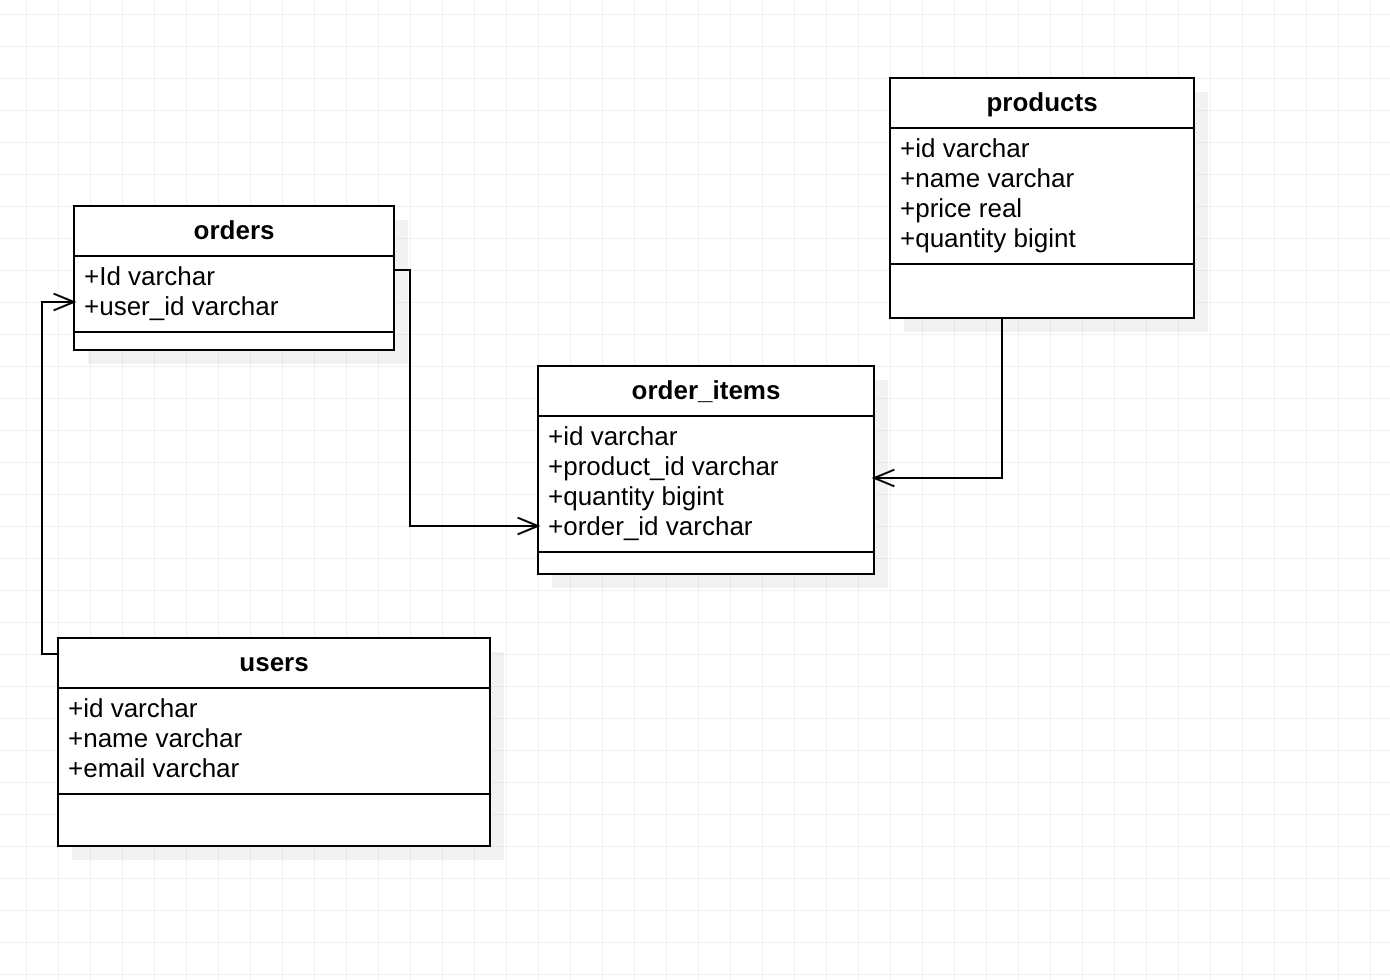
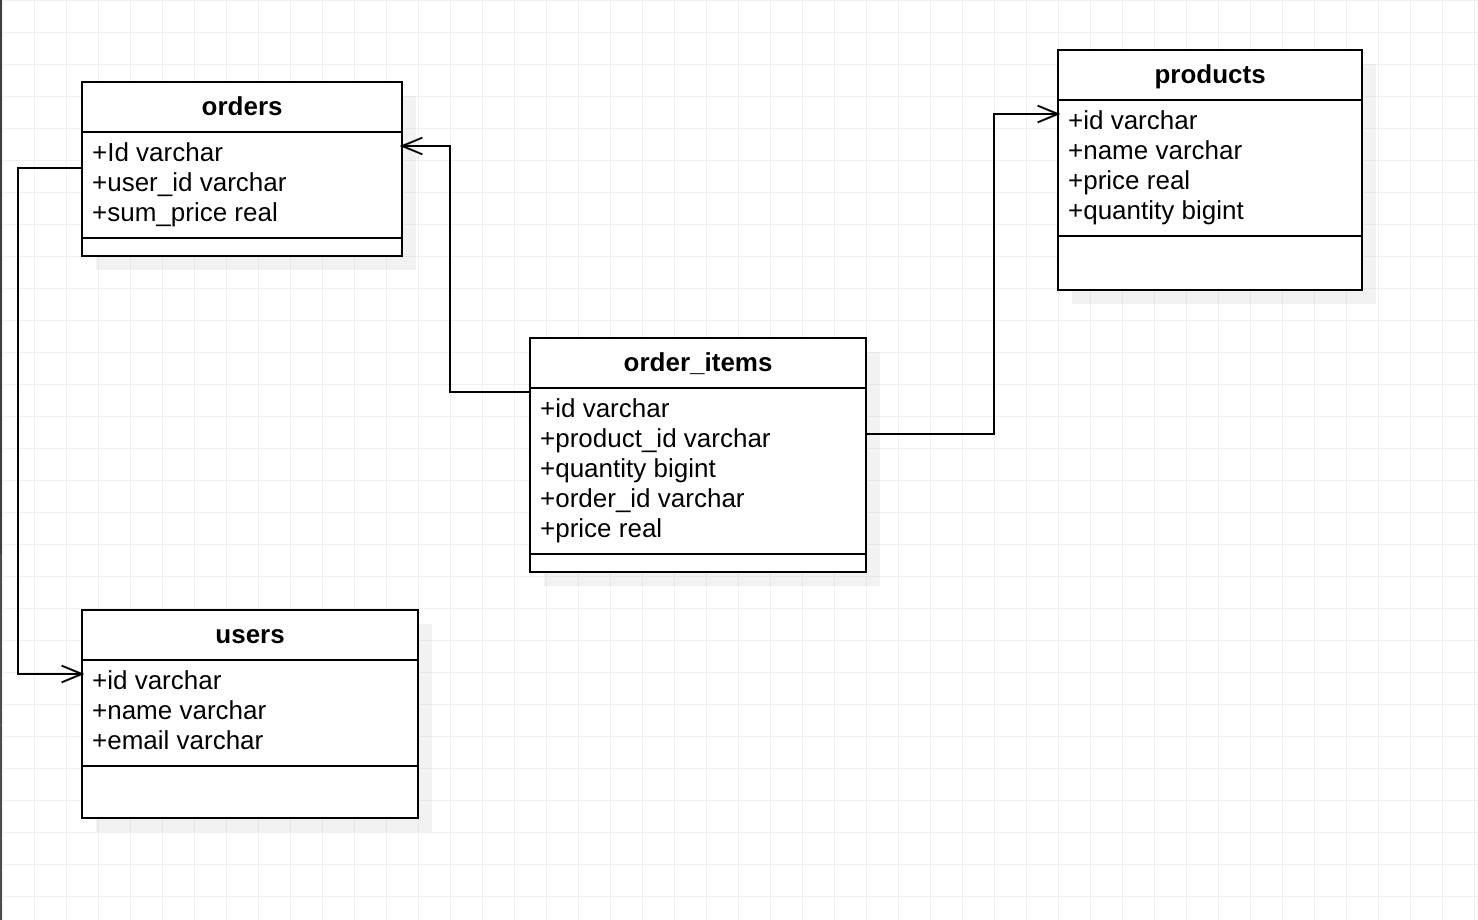
update code

diff --git a/internal/databases/orm/order_items.go b/internal/databases/orm/order_items.go
@@ -24,13 +24,14 @@ import (
 
 // OrderItem is an object representing the database table.
 type OrderItem struct {
-	ID        string      `boil:"id" json:"id" toml:"id" yaml:"id"`
-	ProductID null.String `boil:"product_id" json:"product_id,omitempty" toml:"product_id" yaml:"product_id,omitempty"`
-	Quantity  null.Int64  `boil:"quantity" json:"quantity,omitempty" toml:"quantity" yaml:"quantity,omitempty"`
-	OrderID   null.String `boil:"order_id" json:"order_id,omitempty" toml:"order_id" yaml:"order_id,omitempty"`
-	CreatedAt time.Time   `boil:"created_at" json:"created_at" toml:"created_at" yaml:"created_at"`
-	UpdatedAt null.Time   `boil:"updated_at" json:"updated_at,omitempty" toml:"updated_at" yaml:"updated_at,omitempty"`
-	DeletedAt null.Time   `boil:"deleted_at" json:"deleted_at,omitempty" toml:"deleted_at" yaml:"deleted_at,omitempty"`
+	ID        string       `boil:"id" json:"id" toml:"id" yaml:"id"`
+	ProductID null.String  `boil:"product_id" json:"product_id,omitempty" toml:"product_id" yaml:"product_id,omitempty"`
+	Quantity  null.Int64   `boil:"quantity" json:"quantity,omitempty" toml:"quantity" yaml:"quantity,omitempty"`
+	OrderID   null.String  `boil:"order_id" json:"order_id,omitempty" toml:"order_id" yaml:"order_id,omitempty"`
+	Price     null.Float32 `boil:"price" json:"price,omitempty" toml:"price" yaml:"price,omitempty"`
+	CreatedAt time.Time    `boil:"created_at" json:"created_at" toml:"created_at" yaml:"created_at"`
+	UpdatedAt null.Time    `boil:"updated_at" json:"updated_at,omitempty" toml:"updated_at" yaml:"updated_at,omitempty"`
+	DeletedAt null.Time    `boil:"deleted_at" json:"deleted_at,omitempty" toml:"deleted_at" yaml:"deleted_at,omitempty"`
 
 	R *orderItemR `boil:"-" json:"-" toml:"-" yaml:"-"`
 	L orderItemL  `boil:"-" json:"-" toml:"-" yaml:"-"`
@@ -41,6 +42,7 @@ var OrderItemColumns = struct {
 	ProductID string
 	Quantity  string
 	OrderID   string
+	Price     string
 	CreatedAt string
 	UpdatedAt string
 	DeletedAt string
@@ -49,6 +51,7 @@ var OrderItemColumns = struct {
 	ProductID: "product_id",
 	Quantity:  "quantity",
 	OrderID:   "order_id",
+	Price:     "price",
 	CreatedAt: "created_at",
 	UpdatedAt: "updated_at",
 	DeletedAt: "deleted_at",
@@ -59,6 +62,7 @@ var OrderItemTableColumns = struct {
 	ProductID string
 	Quantity  string
 	OrderID   string
+	Price     string
 	CreatedAt string
 	UpdatedAt string
 	DeletedAt string
@@ -67,6 +71,7 @@ var OrderItemTableColumns = struct {
 	ProductID: "order_items.product_id",
 	Quantity:  "order_items.quantity",
 	OrderID:   "order_items.order_id",
+	Price:     "order_items.price",
 	CreatedAt: "order_items.created_at",
 	UpdatedAt: "order_items.updated_at",
 	DeletedAt: "order_items.deleted_at",
@@ -145,6 +150,30 @@ func (w whereHelpernull_Int64) GTE(x null.Int64) qm.QueryMod {
 func (w whereHelpernull_Int64) IsNull() qm.QueryMod    { return qmhelper.WhereIsNull(w.field) }
 func (w whereHelpernull_Int64) IsNotNull() qm.QueryMod { return qmhelper.WhereIsNotNull(w.field) }
 
+type whereHelpernull_Float32 struct{ field string }
+
+func (w whereHelpernull_Float32) EQ(x null.Float32) qm.QueryMod {
+	return qmhelper.WhereNullEQ(w.field, false, x)
+}
+func (w whereHelpernull_Float32) NEQ(x null.Float32) qm.QueryMod {
+	return qmhelper.WhereNullEQ(w.field, true, x)
+}
+func (w whereHelpernull_Float32) LT(x null.Float32) qm.QueryMod {
+	return qmhelper.Where(w.field, qmhelper.LT, x)
+}
+func (w whereHelpernull_Float32) LTE(x null.Float32) qm.QueryMod {
+	return qmhelper.Where(w.field, qmhelper.LTE, x)
+}
+func (w whereHelpernull_Float32) GT(x null.Float32) qm.QueryMod {
+	return qmhelper.Where(w.field, qmhelper.GT, x)
+}
+func (w whereHelpernull_Float32) GTE(x null.Float32) qm.QueryMod {
+	return qmhelper.Where(w.field, qmhelper.GTE, x)
+}
+
+func (w whereHelpernull_Float32) IsNull() qm.QueryMod    { return qmhelper.WhereIsNull(w.field) }
+func (w whereHelpernull_Float32) IsNotNull() qm.QueryMod { return qmhelper.WhereIsNotNull(w.field) }
+
 type whereHelpertime_Time struct{ field string }
 
 func (w whereHelpertime_Time) EQ(x time.Time) qm.QueryMod {
@@ -195,6 +224,7 @@ var OrderItemWhere = struct {
 	ProductID whereHelpernull_String
 	Quantity  whereHelpernull_Int64
 	OrderID   whereHelpernull_String
+	Price     whereHelpernull_Float32
 	CreatedAt whereHelpertime_Time
 	UpdatedAt whereHelpernull_Time
 	DeletedAt whereHelpernull_Time
@@ -203,6 +233,7 @@ var OrderItemWhere = struct {
 	ProductID: whereHelpernull_String{field: "\"order_items\".\"product_id\""},
 	Quantity:  whereHelpernull_Int64{field: "\"order_items\".\"quantity\""},
 	OrderID:   whereHelpernull_String{field: "\"order_items\".\"order_id\""},
+	Price:     whereHelpernull_Float32{field: "\"order_items\".\"price\""},
 	CreatedAt: whereHelpertime_Time{field: "\"order_items\".\"created_at\""},
 	UpdatedAt: whereHelpernull_Time{field: "\"order_items\".\"updated_at\""},
 	DeletedAt: whereHelpernull_Time{field: "\"order_items\".\"deleted_at\""},
@@ -225,9 +256,9 @@ func (*orderItemR) NewStruct() *orderItemR {
 type orderItemL struct{}
 
 var (
-	orderItemAllColumns            = []string{"id", "product_id", "quantity", "order_id", "created_at", "updated_at", "deleted_at"}
+	orderItemAllColumns            = []string{"id", "product_id", "quantity", "order_id", "price", "created_at", "updated_at", "deleted_at"}
 	orderItemColumnsWithoutDefault = []string{"id", "created_at"}
-	orderItemColumnsWithDefault    = []string{"product_id", "quantity", "order_id", "updated_at", "deleted_at"}
+	orderItemColumnsWithDefault    = []string{"product_id", "quantity", "order_id", "price", "updated_at", "deleted_at"}
 	orderItemPrimaryKeyColumns     = []string{"id"}
 	orderItemGeneratedColumns      = []string{}
 )

diff --git a/internal/databases/orm/orders.go b/internal/databases/orm/orders.go
@@ -24,11 +24,12 @@ import (
 
 // Order is an object representing the database table.
 type Order struct {
-	ID        string    `boil:"id" json:"id" toml:"id" yaml:"id"`
-	UserID    string    `boil:"user_id" json:"user_id" toml:"user_id" yaml:"user_id"`
-	CreatedAt time.Time `boil:"created_at" json:"created_at" toml:"created_at" yaml:"created_at"`
-	UpdatedAt null.Time `boil:"updated_at" json:"updated_at,omitempty" toml:"updated_at" yaml:"updated_at,omitempty"`
-	DeletedAt null.Time `boil:"deleted_at" json:"deleted_at,omitempty" toml:"deleted_at" yaml:"deleted_at,omitempty"`
+	ID        string       `boil:"id" json:"id" toml:"id" yaml:"id"`
+	UserID    string       `boil:"user_id" json:"user_id" toml:"user_id" yaml:"user_id"`
+	SumPrice  null.Float32 `boil:"sum_price" json:"sum_price,omitempty" toml:"sum_price" yaml:"sum_price,omitempty"`
+	CreatedAt time.Time    `boil:"created_at" json:"created_at" toml:"created_at" yaml:"created_at"`
+	UpdatedAt null.Time    `boil:"updated_at" json:"updated_at,omitempty" toml:"updated_at" yaml:"updated_at,omitempty"`
+	DeletedAt null.Time    `boil:"deleted_at" json:"deleted_at,omitempty" toml:"deleted_at" yaml:"deleted_at,omitempty"`
 
 	R *orderR `boil:"-" json:"-" toml:"-" yaml:"-"`
 	L orderL  `boil:"-" json:"-" toml:"-" yaml:"-"`
@@ -37,12 +38,14 @@ type Order struct {
 var OrderColumns = struct {
 	ID        string
 	UserID    string
+	SumPrice  string
 	CreatedAt string
 	UpdatedAt string
 	DeletedAt string
 }{
 	ID:        "id",
 	UserID:    "user_id",
+	SumPrice:  "sum_price",
 	CreatedAt: "created_at",
 	UpdatedAt: "updated_at",
 	DeletedAt: "deleted_at",
@@ -51,12 +54,14 @@ var OrderColumns = struct {
 var OrderTableColumns = struct {
 	ID        string
 	UserID    string
+	SumPrice  string
 	CreatedAt string
 	UpdatedAt string
 	DeletedAt string
 }{
 	ID:        "orders.id",
 	UserID:    "orders.user_id",
+	SumPrice:  "orders.sum_price",
 	CreatedAt: "orders.created_at",
 	UpdatedAt: "orders.updated_at",
 	DeletedAt: "orders.deleted_at",
@@ -67,12 +72,14 @@ var OrderTableColumns = struct {
 var OrderWhere = struct {
 	ID        whereHelperstring
 	UserID    whereHelperstring
+	SumPrice  whereHelpernull_Float32
 	CreatedAt whereHelpertime_Time
 	UpdatedAt whereHelpernull_Time
 	DeletedAt whereHelpernull_Time
 }{
 	ID:        whereHelperstring{field: "\"orders\".\"id\""},
 	UserID:    whereHelperstring{field: "\"orders\".\"user_id\""},
+	SumPrice:  whereHelpernull_Float32{field: "\"orders\".\"sum_price\""},
 	CreatedAt: whereHelpertime_Time{field: "\"orders\".\"created_at\""},
 	UpdatedAt: whereHelpernull_Time{field: "\"orders\".\"updated_at\""},
 	DeletedAt: whereHelpernull_Time{field: "\"orders\".\"deleted_at\""},
@@ -95,9 +102,9 @@ func (*orderR) NewStruct() *orderR {
 type orderL struct{}
 
 var (
-	orderAllColumns            = []string{"id", "user_id", "created_at", "updated_at", "deleted_at"}
+	orderAllColumns            = []string{"id", "user_id", "sum_price", "created_at", "updated_at", "deleted_at"}
 	orderColumnsWithoutDefault = []string{"id", "user_id", "created_at"}
-	orderColumnsWithDefault    = []string{"updated_at", "deleted_at"}
+	orderColumnsWithDefault    = []string{"sum_price", "updated_at", "deleted_at"}
 	orderPrimaryKeyColumns     = []string{"id"}
 	orderGeneratedColumns      = []string{}
 )

diff --git a/internal/databases/orm/products.go b/internal/databases/orm/products.go
@@ -74,30 +74,6 @@ var ProductTableColumns = struct {
 
 // Generated where
 
-type whereHelpernull_Float32 struct{ field string }
-
-func (w whereHelpernull_Float32) EQ(x null.Float32) qm.QueryMod {
-	return qmhelper.WhereNullEQ(w.field, false, x)
-}
-func (w whereHelpernull_Float32) NEQ(x null.Float32) qm.QueryMod {
-	return qmhelper.WhereNullEQ(w.field, true, x)
-}
-func (w whereHelpernull_Float32) LT(x null.Float32) qm.QueryMod {
-	return qmhelper.Where(w.field, qmhelper.LT, x)
-}
-func (w whereHelpernull_Float32) LTE(x null.Float32) qm.QueryMod {
-	return qmhelper.Where(w.field, qmhelper.LTE, x)
-}
-func (w whereHelpernull_Float32) GT(x null.Float32) qm.QueryMod {
-	return qmhelper.Where(w.field, qmhelper.GT, x)
-}
-func (w whereHelpernull_Float32) GTE(x null.Float32) qm.QueryMod {
-	return qmhelper.Where(w.field, qmhelper.GTE, x)
-}
-
-func (w whereHelpernull_Float32) IsNull() qm.QueryMod    { return qmhelper.WhereIsNull(w.field) }
-func (w whereHelpernull_Float32) IsNotNull() qm.QueryMod { return qmhelper.WhereIsNotNull(w.field) }
-
 var ProductWhere = struct {
 	ID        whereHelperstring
 	Name      whereHelpernull_String

diff --git a/internal/models/order_item.go b/internal/models/order_item.go
@@ -6,10 +6,12 @@ import (
 	"github.com/volatiletech/null/v8"
 )
 
-type Order struct {
+type OrderItem struct {
 	ID        string // uuid
-	UserID    string
-	SumPrice  float32
+	ProductID string
+	Quantity  int64
+	Price     float32
+	OrderID   string
 	CreatedAt time.Time
 	UpdatedAt time.Time
 	DeletedAt null.Time
